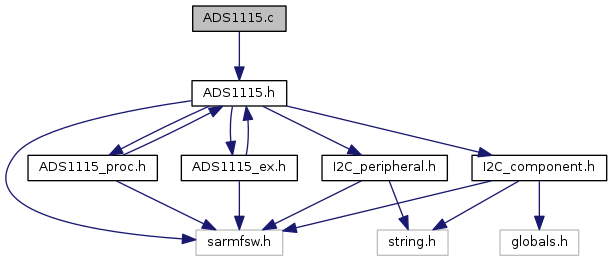
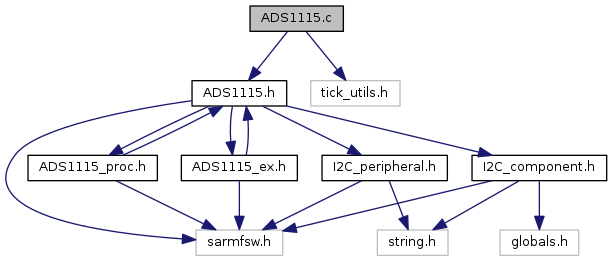
Deploy code docs to GitHub Pages Travis build: 60
Commit: 9fc172edb08244088f67f4b66f5c757e74c6e243

Changed region(s): [[0.3105, 0.0, 0.5899, 0.3065], [0.4967, 0.2146, 0.683, 0.4291], [0.4346, 0.1533, 0.4657, 0.2146]]

diff --git a/html/df/d61/_a_d_s1115_8h_source.html b/html/df/d61/_a_d_s1115_8h_source.html
@@ -83,16 +83,16 @@ $(function() {
 <div class="ttc" id="_a_d_s1115_8h_html_aa2a2ad3f2ad93083e50416775293d713ab3d6703d813cced95a3bd1f46bf8d535"><div class="ttname"><a href="../../df/d61/_a_d_s1115_8h.html#aa2a2ad3f2ad93083e50416775293d713ab3d6703d813cced95a3bd1f46bf8d535">ADS1115__SPS_475</a></div><div class="ttdoc">475 SPS </div><div class="ttdef"><b>Definition:</b> ADS1115.h:118</div></div>
 <div class="ttc" id="_a_d_s1115_8h_html_a639b5ff8b088b1baa081160b3051d7f0a4a0f3c53e74f4b0d5d9a947c807d773a"><div class="ttname"><a href="../../df/d61/_a_d_s1115_8h.html#a639b5ff8b088b1baa081160b3051d7f0a4a0f3c53e74f4b0d5d9a947c807d773a">ADS1115__FS_6144mV</a></div><div class="ttdoc">FS = ±6.144V (step = 187.5µV) </div><div class="ttdef"><b>Definition:</b> ADS1115.h:88</div></div>
 <div class="ttc" id="_a_d_s1115_8h_html_aa2a2ad3f2ad93083e50416775293d713af4d282a55db56615bf294974fb0427fe"><div class="ttname"><a href="../../df/d61/_a_d_s1115_8h.html#aa2a2ad3f2ad93083e50416775293d713af4d282a55db56615bf294974fb0427fe">ADS1115__SPS_16</a></div><div class="ttdoc">16 SPS </div><div class="ttdef"><b>Definition:</b> ADS1115.h:113</div></div>
-<div class="ttc" id="_a_d_s1115_8h_html_aca8481f4d0bcf062cde74d6947a0809d"><div class="ttname"><a href="../../df/d61/_a_d_s1115_8h.html#aca8481f4d0bcf062cde74d6947a0809d">ADS1115_Init_Single</a></div><div class="ttdeci">FctERR ADS1115_Init_Single(void)</div><div class="ttdoc">Initialization for ADS1115 peripheral. </div><div class="ttdef"><b>Definition:</b> ADS1115.c:45</div></div>
+<div class="ttc" id="_a_d_s1115_8h_html_aca8481f4d0bcf062cde74d6947a0809d"><div class="ttname"><a href="../../df/d61/_a_d_s1115_8h.html#aca8481f4d0bcf062cde74d6947a0809d">ADS1115_Init_Single</a></div><div class="ttdeci">FctERR ADS1115_Init_Single(void)</div><div class="ttdoc">Initialization for ADS1115 peripheral. </div><div class="ttdef"><b>Definition:</b> ADS1115.c:49</div></div>
 <div class="ttc" id="_a_d_s1115__proc_8h_html"><div class="ttname"><a href="../../d4/d35/_a_d_s1115__proc_8h.html">ADS1115_proc.h</a></div><div class="ttdoc">ADS1115 Driver procedures. </div></div>
 <div class="ttc" id="_a_d_s1115_8h_html_a639b5ff8b088b1baa081160b3051d7f0adb01f52c8c2046abb8f833aa60ad7eaf"><div class="ttname"><a href="../../df/d61/_a_d_s1115_8h.html#a639b5ff8b088b1baa081160b3051d7f0adb01f52c8c2046abb8f833aa60ad7eaf">ADS1115__FS_1024mV</a></div><div class="ttdoc">FS = ±1.024V (step = 31.25µV) </div><div class="ttdef"><b>Definition:</b> ADS1115.h:91</div></div>
 <div class="ttc" id="_a_d_s1115_8h_html_ae7fad1b62fe6d8dad7c507e328006fa1"><div class="ttname"><a href="../../df/d61/_a_d_s1115_8h.html#ae7fad1b62fe6d8dad7c507e328006fa1">ADS1115_reg</a></div><div class="ttdeci">enum ADS1115_reg_map ADS1115_reg</div></div>
 <div class="ttc" id="unionu_a_d_s1115___r_e_g_____c_f_g_html_aded906a986dc541b146e3aa7aaec139a"><div class="ttname"><a href="../../d1/d47/unionu_a_d_s1115___r_e_g_____c_f_g.html#aded906a986dc541b146e3aa7aaec139a">uADS1115_REG__CFG::MODE</a></div><div class="ttdeci">ADS1115_mode MODE</div><div class="ttdoc">Device operating mode. </div><div class="ttdef"><b>Definition:</b> ADS1115.h:173</div></div>
 <div class="ttc" id="_a_d_s1115_8h_html_ab57042083819ff35d983915ee0ae7b15a2f63cc27902c0231194b4b2cb8c602fb"><div class="ttname"><a href="../../df/d61/_a_d_s1115_8h.html#ab57042083819ff35d983915ee0ae7b15a2f63cc27902c0231194b4b2cb8c602fb">ADS1115__MUX_pAIN1_nGND</a></div><div class="ttdoc">AINP = AIN1 and AINN = GND. </div><div class="ttdef"><b>Definition:</b> ADS1115.h:78</div></div>
-<div class="ttc" id="_a_d_s1115_8h_html_a9b7a1bd3466487159a0b6975b115cd22"><div class="ttname"><a href="../../df/d61/_a_d_s1115_8h.html#a9b7a1bd3466487159a0b6975b115cd22">ADS1115_Init</a></div><div class="ttdeci">FctERR ADS1115_Init(const uint8_t idx, const I2C_HandleTypeDef *hi2c, const uint16_t devAddress)</div><div class="ttdoc">Initialization for ADS1115 peripheral. </div><div class="ttdef"><b>Definition:</b> ADS1115.c:29</div></div>
+<div class="ttc" id="_a_d_s1115_8h_html_a9b7a1bd3466487159a0b6975b115cd22"><div class="ttname"><a href="../../df/d61/_a_d_s1115_8h.html#a9b7a1bd3466487159a0b6975b115cd22">ADS1115_Init</a></div><div class="ttdeci">FctERR ADS1115_Init(const uint8_t idx, const I2C_HandleTypeDef *hi2c, const uint16_t devAddress)</div><div class="ttdoc">Initialization for ADS1115 peripheral. </div><div class="ttdef"><b>Definition:</b> ADS1115.c:32</div></div>
 <div class="ttc" id="_a_d_s1115_8h_html_a9fd93577d3e1807fc9a0da3842b84c05ab39eb4ba1411f1ffdad54d447479aa6b"><div class="ttname"><a href="../../df/d61/_a_d_s1115_8h.html#a9fd93577d3e1807fc9a0da3842b84c05ab39eb4ba1411f1ffdad54d447479aa6b">ADS1115__LATCH_DISABLE</a></div><div class="ttdoc">Non-latching comparator. </div><div class="ttdef"><b>Definition:</b> ADS1115.h:145</div></div>
-<div class="ttc" id="_a_d_s1115_8h_html_a50f379423ce4c0426982793ef0246b88"><div class="ttname"><a href="../../df/d61/_a_d_s1115_8h.html#a50f379423ce4c0426982793ef0246b88">ADS1115_Write</a></div><div class="ttdeci">FctERR ADS1115_Write(I2C_slave_t *pSlave, const uint16_t *data, const uint16_t addr)</div><div class="ttdoc">I2C Write function for ADS1115. </div><div class="ttdef"><b>Definition:</b> ADS1115.c:51</div></div>
-<div class="ttc" id="_a_d_s1115_8h_html_a0441c7fface07adf0e5ff9dd2862389a"><div class="ttname"><a href="../../df/d61/_a_d_s1115_8h.html#a0441c7fface07adf0e5ff9dd2862389a">ADS1115_hal</a></div><div class="ttdeci">I2C_slave_t ADS1115_hal[I2C_ADS1115_NB]</div><div class="ttdoc">ADS1115 Slave structure. </div><div class="ttdef"><b>Definition:</b> ADS1115.c:23</div></div>
+<div class="ttc" id="_a_d_s1115_8h_html_a50f379423ce4c0426982793ef0246b88"><div class="ttname"><a href="../../df/d61/_a_d_s1115_8h.html#a50f379423ce4c0426982793ef0246b88">ADS1115_Write</a></div><div class="ttdeci">FctERR ADS1115_Write(I2C_slave_t *pSlave, const uint16_t *data, const uint16_t addr)</div><div class="ttdoc">I2C Write function for ADS1115. </div><div class="ttdef"><b>Definition:</b> ADS1115.c:55</div></div>
+<div class="ttc" id="_a_d_s1115_8h_html_a0441c7fface07adf0e5ff9dd2862389a"><div class="ttname"><a href="../../df/d61/_a_d_s1115_8h.html#a0441c7fface07adf0e5ff9dd2862389a">ADS1115_hal</a></div><div class="ttdeci">I2C_slave_t ADS1115_hal[I2C_ADS1115_NB]</div><div class="ttdoc">ADS1115 Slave structure. </div><div class="ttdef"><b>Definition:</b> ADS1115.c:26</div></div>
 <div class="ttc" id="_a_d_s1115_8h_html_a639b5ff8b088b1baa081160b3051d7f0a69db73aa98f8897ff60aacab7b052e17"><div class="ttname"><a href="../../df/d61/_a_d_s1115_8h.html#a639b5ff8b088b1baa081160b3051d7f0a69db73aa98f8897ff60aacab7b052e17">ADS1115__FS_256mV_3</a></div><div class="ttdoc">FS = ±0.256V (step = 7.8125µV) </div><div class="ttdef"><b>Definition:</b> ADS1115.h:95</div></div>
 <div class="ttc" id="_a_d_s1115_8h_html_a8c1d4dd21e1acb05987c65cfaaa7acd8a874465c52804365045c942aa6a0aeb8d"><div class="ttname"><a href="../../df/d61/_a_d_s1115_8h.html#a8c1d4dd21e1acb05987c65cfaaa7acd8a874465c52804365045c942aa6a0aeb8d">ADS1115__COMP_WINDOW</a></div><div class="ttdoc">Window comparator. </div><div class="ttdef"><b>Definition:</b> ADS1115.h:128</div></div>
 <div class="ttc" id="_a_d_s1115_8h_html_afc46ff02d1820616c5fa5477c0670f6aaa0b908f238cfa6260903f74e6c4fe9c0"><div class="ttname"><a href="../../df/d61/_a_d_s1115_8h.html#afc46ff02d1820616c5fa5477c0670f6aaa0b908f238cfa6260903f74e6c4fe9c0">ADS1115__POL_HIGH</a></div><div class="ttdoc">Active High. </div><div class="ttdef"><b>Definition:</b> ADS1115.h:137</div></div>
@@ -130,7 +130,7 @@ $(function() {
 <div class="ttc" id="_a_d_s1115_8h_html_a9dab2e546a6fc9d6ab09699996883f35"><div class="ttname"><a href="../../df/d61/_a_d_s1115_8h.html#a9dab2e546a6fc9d6ab09699996883f35">ADS1115_queue</a></div><div class="ttdeci">ADS1115_queue</div><div class="ttdoc">Comparator Queue and Disable enum for ADS1115. </div><div class="ttdef"><b>Definition:</b> ADS1115.h:153</div></div>
 <div class="ttc" id="unionu_a_d_s1115___r_e_g_____c_f_g_html_a7c997cefc92e0f8d4bbadf2720040a53"><div class="ttname"><a href="../../d1/d47/unionu_a_d_s1115___r_e_g_____c_f_g.html#a7c997cefc92e0f8d4bbadf2720040a53">uADS1115_REG__CFG::Bytes</a></div><div class="ttdeci">uint8_t Bytes[2]</div><div class="ttdef"><b>Definition:</b> ADS1115.h:166</div></div>
 <div class="ttc" id="_a_d_s1115_8h_html_a137644e585c986fdce5b8a1eb82a9db2a520eb461d5dc48aeffd2f27ead00eebf"><div class="ttname"><a href="../../df/d61/_a_d_s1115_8h.html#a137644e585c986fdce5b8a1eb82a9db2a520eb461d5dc48aeffd2f27ead00eebf">ADS1115__CONFIG</a></div><div class="ttdoc">Config register. </div><div class="ttdef"><b>Definition:</b> ADS1115.h:63</div></div>
-<div class="ttc" id="_a_d_s1115_8h_html_a7901402897c2af57cb7fbcf93b90b113"><div class="ttname"><a href="../../df/d61/_a_d_s1115_8h.html#a7901402897c2af57cb7fbcf93b90b113">ADS1115_Read</a></div><div class="ttdeci">FctERR ADS1115_Read(I2C_slave_t *pSlave, uint16_t *data, const uint16_t addr)</div><div class="ttdoc">I2C Read function for ADS1115. </div><div class="ttdef"><b>Definition:</b> ADS1115.c:65</div></div>
+<div class="ttc" id="_a_d_s1115_8h_html_a7901402897c2af57cb7fbcf93b90b113"><div class="ttname"><a href="../../df/d61/_a_d_s1115_8h.html#a7901402897c2af57cb7fbcf93b90b113">ADS1115_Read</a></div><div class="ttdeci">FctERR ADS1115_Read(I2C_slave_t *pSlave, uint16_t *data, const uint16_t addr)</div><div class="ttdoc">I2C Read function for ADS1115. </div><div class="ttdef"><b>Definition:</b> ADS1115.c:69</div></div>
 <div class="ttc" id="_a_d_s1115_8h_html_a7eaf7ec6a8d54d5e3d50988da3e71a3a"><div class="ttname"><a href="../../df/d61/_a_d_s1115_8h.html#a7eaf7ec6a8d54d5e3d50988da3e71a3a">I2C_ADS1115_NB</a></div><div class="ttdeci">#define I2C_ADS1115_NB</div><div class="ttdoc">Number of ADS1115 peripherals. </div><div class="ttdef"><b>Definition:</b> ADS1115.h:32</div></div>
 <div class="ttc" id="unionu_a_d_s1115___r_e_g_____c_f_g_html_a07f7ca6a06c7657d160440d052c2ae48"><div class="ttname"><a href="../../d1/d47/unionu_a_d_s1115___r_e_g_____c_f_g.html#a07f7ca6a06c7657d160440d052c2ae48">uADS1115_REG__CFG::COMP_MODE</a></div><div class="ttdeci">ADS1115_comp COMP_MODE</div><div class="ttdoc">Comparator mode (ADS1114 and ADS1115 only) </div><div class="ttdef"><b>Definition:</b> ADS1115.h:171</div></div>
 <div class="ttc" id="_a_d_s1115__ex_8h_html"><div class="ttname"><a href="../../d8/d4b/_a_d_s1115__ex_8h.html">ADS1115_ex.h</a></div><div class="ttdoc">ADS1115 Driver extensions. </div></div>

diff --git a/html/dd/d4f/_a_t42_q_t1244_8h_source.html b/html/dd/d4f/_a_t42_q_t1244_8h_source.html
@@ -247,7 +247,7 @@ $(function() {
 <div class="ttc" id="_a_t42_q_t1244_8h_html_a5982b63d63484894739fce4a05307ce2"><div class="ttname"><a href="../../dd/d4f/_a_t42_q_t1244_8h.html#a5982b63d63484894739fce4a05307ce2">uAT42QT_REG__SETUP_165_188</a></div><div class="ttdeci">union uAT42QT_REG__SETUP_165_188 uAT42QT_REG__SETUP_165_188</div></div>
 <div class="ttc" id="_a_t42_q_t1244_8h_html_a26116acd8e6c1f98af15aadd7081141aae3ce285bdf6adb301186a1eb785e7148"><div class="ttname"><a href="../../dd/d4f/_a_t42_q_t1244_8h.html#a26116acd8e6c1f98af15aadd7081141aae3ce285bdf6adb301186a1eb785e7148">AT42QT__SETUP_KEYS_THRESHOLD_16</a></div><div class="ttdef"><b>Definition:</b> AT42QT1244.h:101</div></div>
 <div class="ttc" id="_a_t42_q_t1244_8h_html_ab2394159c0e19a10d10081e5cd739991a351dec0177983410f43e70d3d02e66ee"><div class="ttname"><a href="../../dd/d4f/_a_t42_q_t1244_8h.html#ab2394159c0e19a10d10081e5cd739991a351dec0177983410f43e70d3d02e66ee">AT42QT__CALIBRATE_KEY_10</a></div><div class="ttdoc">Calibration: Key 10. </div><div class="ttdef"><b>Definition:</b> AT42QT1244.h:150</div></div>
-<div class="ttc" id="_a_t42_q_t1244_8h_html_a8060fa17608cb27da6c09ddbc7086107"><div class="ttname"><a href="../../dd/d4f/_a_t42_q_t1244_8h.html#a8060fa17608cb27da6c09ddbc7086107">AT42QT1244_Init_Single</a></div><div class="ttdeci">FctERR AT42QT1244_Init_Single(void)</div><div class="ttdoc">Initialization for AT42QT1244 peripheral. </div><div class="ttdef"><b>Definition:</b> AT42QT1244.c:46</div></div>
+<div class="ttc" id="_a_t42_q_t1244_8h_html_a8060fa17608cb27da6c09ddbc7086107"><div class="ttname"><a href="../../dd/d4f/_a_t42_q_t1244_8h.html#a8060fa17608cb27da6c09ddbc7086107">AT42QT1244_Init_Single</a></div><div class="ttdeci">FctERR AT42QT1244_Init_Single(void)</div><div class="ttdoc">Initialization for AT42QT1244 peripheral. </div><div class="ttdef"><b>Definition:</b> AT42QT1244.c:47</div></div>
 <div class="ttc" id="_a_t42_q_t1244_8h_html_a26116acd8e6c1f98af15aadd7081141aa6e61b1ae4f3f77395ec5ff188965f371"><div class="ttname"><a href="../../dd/d4f/_a_t42_q_t1244_8h.html#a26116acd8e6c1f98af15aadd7081141aa6e61b1ae4f3f77395ec5ff188965f371">AT42QT__SETUP_KEYS_MODE_16</a></div><div class="ttdef"><b>Definition:</b> AT42QT1244.h:108</div></div>
 <div class="ttc" id="unionu_a_t42_q_t___r_e_g_____s_e_t_u_p__165__188_html"><div class="ttname"><a href="../../d3/d05/unionu_a_t42_q_t___r_e_g_____s_e_t_u_p__165__188.html">uAT42QT_REG__SETUP_165_188</a></div><div class="ttdef"><b>Definition:</b> AT42QT1244.h:212</div></div>
 <div class="ttc" id="_a_t42_q_t1244_8h_html_ab2394159c0e19a10d10081e5cd739991a58a51e78d995120aaaea1635f76ffbc5"><div class="ttname"><a href="../../dd/d4f/_a_t42_q_t1244_8h.html#ab2394159c0e19a10d10081e5cd739991a58a51e78d995120aaaea1635f76ffbc5">AT42QT__CALIBRATE_ALL_KEYS</a></div><div class="ttdoc">Calibration: all keys. </div><div class="ttdef"><b>Definition:</b> AT42QT1244.h:167</div></div>
@@ -302,14 +302,14 @@ $(function() {
 <div class="ttc" id="_a_t42_q_t1244_8h_html_a26116acd8e6c1f98af15aadd7081141aadfa06f40fd40e12be8c2c9e8dc4b8901"><div class="ttname"><a href="../../dd/d4f/_a_t42_q_t1244_8h.html#a26116acd8e6c1f98af15aadd7081141aadfa06f40fd40e12be8c2c9e8dc4b8901">AT42QT__DATA_KEY_5</a></div><div class="ttdef"><b>Definition:</b> AT42QT1244.h:76</div></div>
 <div class="ttc" id="_a_t42_q_t1244_8h_html_a47601a5478d424c2a37f46ad42a0f7f2"><div class="ttname"><a href="../../dd/d4f/_a_t42_q_t1244_8h.html#a47601a5478d424c2a37f46ad42a0f7f2">uAT42QT_REG__SETUP_248</a></div><div class="ttdeci">union uAT42QT_REG__SETUP_248 uAT42QT_REG__SETUP_248</div></div>
 <div class="ttc" id="_a_t42_q_t1244_8h_html_a26116acd8e6c1f98af15aadd7081141aae78c2e049d1b4255bf9d6be9253541ec"><div class="ttname"><a href="../../dd/d4f/_a_t42_q_t1244_8h.html#a26116acd8e6c1f98af15aadd7081141aae78c2e049d1b4255bf9d6be9253541ec">AT42QT__SETUP_KEYS_THRESHOLD_21</a></div><div class="ttdef"><b>Definition:</b> AT42QT1244.h:103</div></div>
-<div class="ttc" id="_a_t42_q_t1244_8h_html_aefc0247934f27b0e2fc64979aee373b7"><div class="ttname"><a href="../../dd/d4f/_a_t42_q_t1244_8h.html#aefc0247934f27b0e2fc64979aee373b7">AT42QT1244_Write</a></div><div class="ttdeci">FctERR AT42QT1244_Write(I2C_slave_t *pSlave, const uint8_t *data, const uint16_t addr, const uint16_t nb)</div><div class="ttdoc">I2C Write function for AT42QT1244. </div><div class="ttdef"><b>Definition:</b> AT42QT1244.c:53</div></div>
+<div class="ttc" id="_a_t42_q_t1244_8h_html_aefc0247934f27b0e2fc64979aee373b7"><div class="ttname"><a href="../../dd/d4f/_a_t42_q_t1244_8h.html#aefc0247934f27b0e2fc64979aee373b7">AT42QT1244_Write</a></div><div class="ttdeci">FctERR AT42QT1244_Write(I2C_slave_t *pSlave, const uint8_t *data, const uint16_t addr, const uint16_t nb)</div><div class="ttdoc">I2C Write function for AT42QT1244. </div><div class="ttdef"><b>Definition:</b> AT42QT1244.c:54</div></div>
 <div class="ttc" id="_a_t42_q_t1244_8h_html_a26116acd8e6c1f98af15aadd7081141aa330666e9f091a273e8262df01f5941a8"><div class="ttname"><a href="../../dd/d4f/_a_t42_q_t1244_8h.html#a26116acd8e6c1f98af15aadd7081141aa330666e9f091a273e8262df01f5941a8">AT42QT__SETUP_CFO_2_18</a></div><div class="ttdef"><b>Definition:</b> AT42QT1244.h:120</div></div>
 <div class="ttc" id="_a_t42_q_t1244_8h_html_a26116acd8e6c1f98af15aadd7081141aaa4d3c32dfcee34ca7312917b329a65e7"><div class="ttname"><a href="../../dd/d4f/_a_t42_q_t1244_8h.html#a26116acd8e6c1f98af15aadd7081141aaa4d3c32dfcee34ca7312917b329a65e7">AT42QT__SETUP_CFO_2_1</a></div><div class="ttdef"><b>Definition:</b> AT42QT1244.h:117</div></div>
 <div class="ttc" id="_a_t42_q_t1244_8h_html_a26116acd8e6c1f98af15aadd7081141aa3a1cae64c70d18921b55cc3702c11887"><div class="ttname"><a href="../../dd/d4f/_a_t42_q_t1244_8h.html#a26116acd8e6c1f98af15aadd7081141aa3a1cae64c70d18921b55cc3702c11887">AT42QT__SETUP_CFO_2_14</a></div><div class="ttdef"><b>Definition:</b> AT42QT1244.h:119</div></div>
 <div class="ttc" id="unionu_a_t42_q_t___r_e_g_____s_e_t_u_p__241_html_a53844db29d15465ef555f2057a76a1ce"><div class="ttname"><a href="../../d7/d60/unionu_a_t42_q_t___r_e_g_____s_e_t_u_p__241.html#a53844db29d15465ef555f2057a76a1ce">uAT42QT_REG__SETUP_241::PDRIFT</a></div><div class="ttdeci">uint8_t PDRIFT</div><div class="ttdoc">Positive drift compensation. </div><div class="ttdef"><b>Definition:</b> AT42QT1244.h:235</div></div>
 <div class="ttc" id="_a_t42_q_t1244_8h_html_ab2394159c0e19a10d10081e5cd739991a7bd7299388e5ea8a2d050b35edc62db7"><div class="ttname"><a href="../../dd/d4f/_a_t42_q_t1244_8h.html#ab2394159c0e19a10d10081e5cd739991a7bd7299388e5ea8a2d050b35edc62db7">AT42QT__CALIBRATE_KEY_22</a></div><div class="ttdoc">Calibration: Key 22. </div><div class="ttdef"><b>Definition:</b> AT42QT1244.h:162</div></div>
 <div class="ttc" id="_a_t42_q_t1244_8h_html_a26116acd8e6c1f98af15aadd7081141aaefecf4a07d495551eea2e6a3af679366"><div class="ttname"><a href="../../dd/d4f/_a_t42_q_t1244_8h.html#a26116acd8e6c1f98af15aadd7081141aaefecf4a07d495551eea2e6a3af679366">AT42QT__DATA_KEY_23</a></div><div class="ttdef"><b>Definition:</b> AT42QT1244.h:94</div></div>
-<div class="ttc" id="_a_t42_q_t1244_8h_html_ab867525e9212e042aec44bc34932ae44"><div class="ttname"><a href="../../dd/d4f/_a_t42_q_t1244_8h.html#ab867525e9212e042aec44bc34932ae44">AT42QT1244_Read</a></div><div class="ttdeci">FctERR AT42QT1244_Read(I2C_slave_t *pSlave, uint8_t *data, const uint16_t addr, const uint16_t nb)</div><div class="ttdoc">I2C Read function for AT42QT1244. </div><div class="ttdef"><b>Definition:</b> AT42QT1244.c:67</div></div>
+<div class="ttc" id="_a_t42_q_t1244_8h_html_ab867525e9212e042aec44bc34932ae44"><div class="ttname"><a href="../../dd/d4f/_a_t42_q_t1244_8h.html#ab867525e9212e042aec44bc34932ae44">AT42QT1244_Read</a></div><div class="ttdeci">FctERR AT42QT1244_Read(I2C_slave_t *pSlave, uint8_t *data, const uint16_t addr, const uint16_t nb)</div><div class="ttdoc">I2C Read function for AT42QT1244. </div><div class="ttdef"><b>Definition:</b> AT42QT1244.c:68</div></div>
 <div class="ttc" id="_a_t42_q_t1244_8h_html_aba6b9727228c10bcd0e6168dc2d332ae"><div class="ttname"><a href="../../dd/d4f/_a_t42_q_t1244_8h.html#aba6b9727228c10bcd0e6168dc2d332ae">AT42QT1244_hal</a></div><div class="ttdeci">I2C_slave_t AT42QT1244_hal[I2C_AT42QT1244_NB]</div><div class="ttdoc">AT42QT1244 Slave structure. </div><div class="ttdef"><b>Definition:</b> AT42QT1244.c:24</div></div>
 <div class="ttc" id="_a_t42_q_t1244_8h_html_a26116acd8e6c1f98af15aadd7081141aa0d869fb621a86fb775ad5e652cdeef65"><div class="ttname"><a href="../../dd/d4f/_a_t42_q_t1244_8h.html#a26116acd8e6c1f98af15aadd7081141aa0d869fb621a86fb775ad5e652cdeef65">AT42QT__DATA_KEY_6</a></div><div class="ttdef"><b>Definition:</b> AT42QT1244.h:77</div></div>
 <div class="ttc" id="unionu_a_t42_q_t___r_e_g_____s_e_t_u_p__141__164_html"><div class="ttname"><a href="../../d8/dbc/unionu_a_t42_q_t___r_e_g_____s_e_t_u_p__141__164.html">uAT42QT_REG__SETUP_141_164</a></div><div class="ttdef"><b>Definition:</b> AT42QT1244.h:203</div></div>

diff --git a/html/d8/d4b/_a_d_s1115__ex_8h_source.html b/html/d8/d4b/_a_d_s1115__ex_8h_source.html
@@ -77,7 +77,7 @@ $(function() {
 <div class="ttc" id="_a_d_s1115__ex_8h_html_ae10c648127de72307a53d7b0e4d14856"><div class="ttname"><a href="../../d8/d4b/_a_d_s1115__ex_8h.html#ae10c648127de72307a53d7b0e4d14856">ADS1115_Get_HighThreshold</a></div><div class="ttdeci">int16_t ADS1115_Get_HighThreshold(ADS1115_t *pCpnt)</div><div class="ttdoc">Get ADS1115 high threshold. </div><div class="ttdef"><b>Definition:</b> ADS1115_ex.h:165</div></div>
 <div class="ttc" id="_a_d_s1115__ex_8h_html_a7934f0075d336875c692f4b464c2cf28"><div class="ttname"><a href="../../d8/d4b/_a_d_s1115__ex_8h.html#a7934f0075d336875c692f4b464c2cf28">ADS1115_Set_HighThreshold</a></div><div class="ttdeci">FctERR ADS1115_Set_HighThreshold(ADS1115_t *pCpnt, const int16_t thrh)</div><div class="ttdoc">Set ADS1115 high threshold. </div><div class="ttdef"><b>Definition:</b> ADS1115_ex.h:149</div></div>
 <div class="ttc" id="_a_d_s1115__ex_8h_html_af00d88025cca9b526606269abaf857d7"><div class="ttname"><a href="../../d8/d4b/_a_d_s1115__ex_8h.html#af00d88025cca9b526606269abaf857d7">ADS1115_Get_conv_us</a></div><div class="ttdeci">uint16_t ADS1115_Get_conv_us(ADS1115_t *pCpnt)</div><div class="ttdoc">Get conversion time for ADS1115 component (µs) </div><div class="ttdef"><b>Definition:</b> ADS1115_ex.c:82</div></div>
-<div class="ttc" id="_a_d_s1115_8c_html_a50f379423ce4c0426982793ef0246b88"><div class="ttname"><a href="../../db/de1/_a_d_s1115_8c.html#a50f379423ce4c0426982793ef0246b88">ADS1115_Write</a></div><div class="ttdeci">FctERR ADS1115_Write(I2C_slave_t *pSlave, const uint16_t *data, const uint16_t addr)</div><div class="ttdoc">I2C Write function for ADS1115. </div><div class="ttdef"><b>Definition:</b> ADS1115.c:51</div></div>
+<div class="ttc" id="_a_d_s1115_8c_html_a50f379423ce4c0426982793ef0246b88"><div class="ttname"><a href="../../db/de1/_a_d_s1115_8c.html#a50f379423ce4c0426982793ef0246b88">ADS1115_Write</a></div><div class="ttdeci">FctERR ADS1115_Write(I2C_slave_t *pSlave, const uint16_t *data, const uint16_t addr)</div><div class="ttdoc">I2C Write function for ADS1115. </div><div class="ttdef"><b>Definition:</b> ADS1115.c:55</div></div>
 <div class="ttc" id="unionu_a_d_s1115___r_e_g___m_a_p_html_a76c06661a2e3238452344389d1e7bc8f"><div class="ttname"><a href="../../d1/d1d/unionu_a_d_s1115___r_e_g___m_a_p.html#a76c06661a2e3238452344389d1e7bc8f">uADS1115_REG_MAP::Words</a></div><div class="ttdeci">uint16_t Words[4]</div><div class="ttdef"><b>Definition:</b> ADS1115_ex.h:41</div></div>
 <div class="ttc" id="struct_a_d_s1115__t_html_a682b4c95fac9ab0d3b17fecd7d175132"><div class="ttname"><a href="../../dd/da4/struct_a_d_s1115__t.html#a682b4c95fac9ab0d3b17fecd7d175132">ADS1115_t::AIN</a></div><div class="ttdeci">int16_t AIN[4]</div><div class="ttdoc">Conversion results. </div><div class="ttdef"><b>Definition:</b> ADS1115_proc.h:48</div></div>
 <div class="ttc" id="_a_d_s1115__ex_8h_html_ab47d757fdf5b2f6fb1b1b3dcd17955a3"><div class="ttname"><a href="../../d8/d4b/_a_d_s1115__ex_8h.html#ab47d757fdf5b2f6fb1b1b3dcd17955a3">ADS1115_Set_CompPolarity</a></div><div class="ttdeci">FctERR ADS1115_Set_CompPolarity(ADS1115_t *pCpnt, const ADS1115_polarity pol)</div><div class="ttdoc">Set ADS1115 Comparator polarity. </div><div class="ttdef"><b>Definition:</b> ADS1115_ex.c:180</div></div>

diff --git a/html/df/de4/_a_t42_q_t1244__ex_8h_source.html b/html/df/de4/_a_t42_q_t1244__ex_8h_source.html
@@ -80,7 +80,7 @@ $(function() {
 <div class="ttc" id="unionu_a_t42_q_t___r_e_g___m_a_p_html_aca113d155c9189dbee2942893cbe94ec"><div class="ttname"><a href="../../d1/db6/unionu_a_t42_q_t___r_e_g___m_a_p.html#aca113d155c9189dbee2942893cbe94ec">uAT42QT_REG_MAP::Counter_100ms</a></div><div class="ttdeci">uint8_t Counter_100ms</div><div class="ttdef"><b>Definition:</b> AT42QT1244_ex.h:33</div></div>
 <div class="ttc" id="unionu_a_t42_q_t___r_e_g___m_a_p_html_a335fe1b10a11f0b92c826aed2a1aec78"><div class="ttname"><a href="../../d1/db6/unionu_a_t42_q_t___r_e_g___m_a_p.html#a335fe1b10a11f0b92c826aed2a1aec78">uAT42QT_REG_MAP::Device_Status</a></div><div class="ttdeci">uAT42QT_REG__DEVICE_STATUS Device_Status</div><div class="ttdef"><b>Definition:</b> AT42QT1244_ex.h:36</div></div>
 <div class="ttc" id="unionu_a_t42_q_t___r_e_g_____s_e_t_u_p__248_html"><div class="ttname"><a href="../../d8/dd1/unionu_a_t42_q_t___r_e_g_____s_e_t_u_p__248.html">uAT42QT_REG__SETUP_248</a></div><div class="ttdef"><b>Definition:</b> AT42QT1244.h:265</div></div>
-<div class="ttc" id="_a_t42_q_t1244_8c_html_ab867525e9212e042aec44bc34932ae44"><div class="ttname"><a href="../../d3/dc4/_a_t42_q_t1244_8c.html#ab867525e9212e042aec44bc34932ae44">AT42QT1244_Read</a></div><div class="ttdeci">FctERR AT42QT1244_Read(I2C_slave_t *pSlave, uint8_t *data, const uint16_t addr, const uint16_t nb)</div><div class="ttdoc">I2C Read function for AT42QT1244. </div><div class="ttdef"><b>Definition:</b> AT42QT1244.c:67</div></div>
+<div class="ttc" id="_a_t42_q_t1244_8c_html_ab867525e9212e042aec44bc34932ae44"><div class="ttname"><a href="../../d3/dc4/_a_t42_q_t1244_8c.html#ab867525e9212e042aec44bc34932ae44">AT42QT1244_Read</a></div><div class="ttdeci">FctERR AT42QT1244_Read(I2C_slave_t *pSlave, uint8_t *data, const uint16_t addr, const uint16_t nb)</div><div class="ttdoc">I2C Read function for AT42QT1244. </div><div class="ttdef"><b>Definition:</b> AT42QT1244.c:68</div></div>
 <div class="ttc" id="_a_t42_q_t1244_8h_html"><div class="ttname"><a href="../../dd/d4f/_a_t42_q_t1244_8h.html">AT42QT1244.h</a></div><div class="ttdoc">AT42QT1244 Driver. </div></div>
 <div class="ttc" id="unionu_a_t42_q_t___r_e_g___m_a_p_html_a7f659f38fab8e52a2b7507baecd65f46"><div class="ttname"><a href="../../d1/db6/unionu_a_t42_q_t___r_e_g___m_a_p.html#a7f659f38fab8e52a2b7507baecd65f46">uAT42QT_REG_MAP::Setup_Awake_Timeout</a></div><div class="ttdeci">uint8_t Setup_Awake_Timeout</div><div class="ttdef"><b>Definition:</b> AT42QT1244_ex.h:52</div></div>
 <div class="ttc" id="unionu_a_t42_q_t___r_e_g___m_a_p_html_aa70075075c3c3084c3fc74bd7e273753"><div class="ttname"><a href="../../d1/db6/unionu_a_t42_q_t___r_e_g___m_a_p.html#aa70075075c3c3084c3fc74bd7e273753">uAT42QT_REG_MAP::Setup_Drift</a></div><div class="ttdeci">uAT42QT_REG__SETUP_241 Setup_Drift</div><div class="ttdef"><b>Definition:</b> AT42QT1244_ex.h:54</div></div>

diff --git a/html/db/de1/_a_d_s1115_8c.html b/html/db/de1/_a_d_s1115_8c.html
@@ -71,6 +71,7 @@ $(function() {
 <p>ADS1115 Driver.  
 <a href="#details">More...</a></p>
 <div class="textblock"><code>#include &quot;<a class="el" href="../../df/d61/_a_d_s1115_8h_source.html">ADS1115.h</a>&quot;</code><br />
+<code>#include &quot;tick_utils.h&quot;</code><br />
 </div><div class="textblock"><div class="dynheader">
 Include dependency graph for ADS1115.c:</div>
 <div class="dyncontent">
